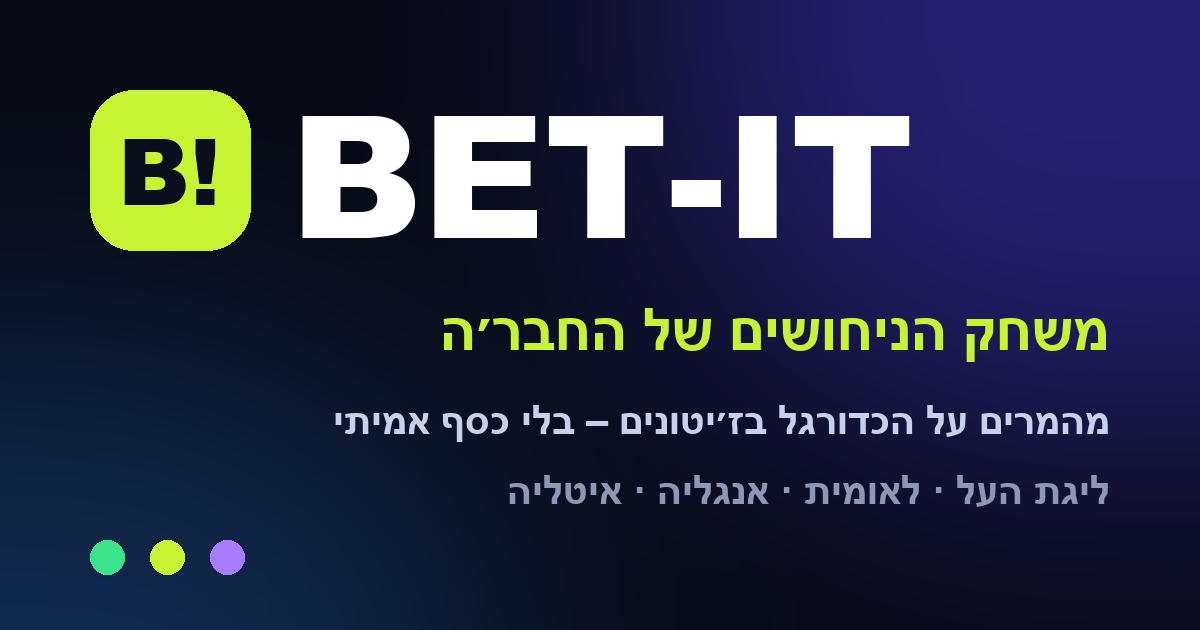
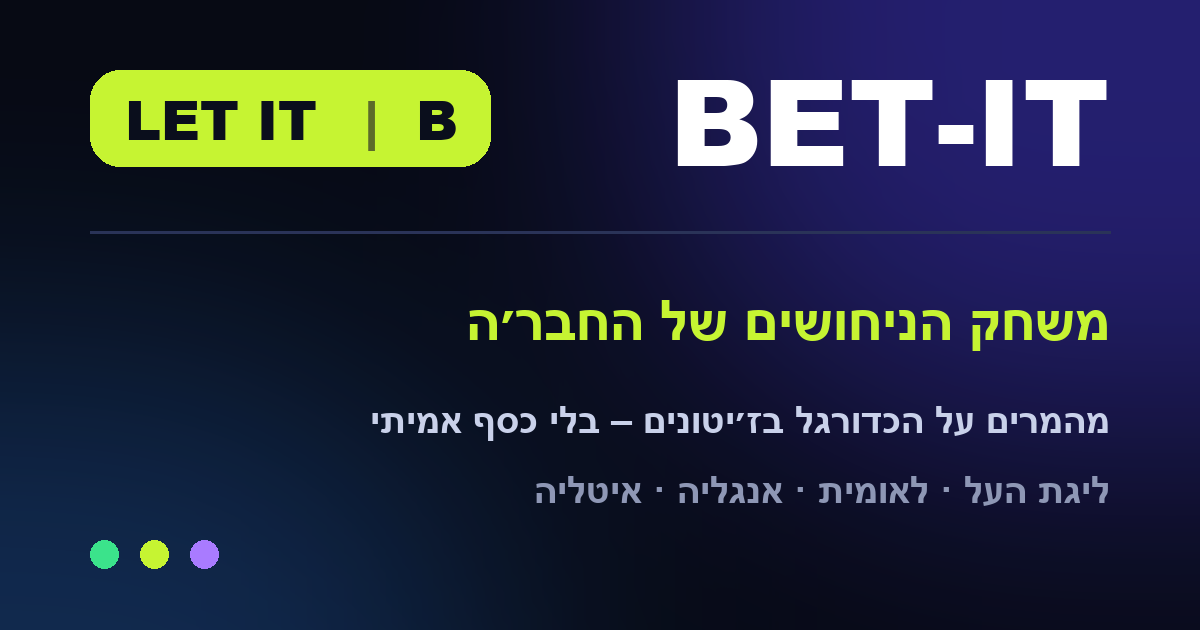
לוגו LET IT | B, מסך מנהל רק עם המפתח האישי, תיקון בדיקת לשוניות

diff --git a/index.html b/index.html
@@ -36,7 +36,8 @@ b,.big,.score,.v,.val{font-variant-numeric:tabular-nums}
 .appbar{position:sticky;top:0;z-index:20;background:rgba(5,12,8,.82);backdrop-filter:saturate(1.4) blur(14px);-webkit-backdrop-filter:saturate(1.4) blur(14px);border-bottom:1px solid var(--line);padding-top:env(safe-area-inset-top)}
 .bar{display:flex;align-items:center;justify-content:space-between;gap:10px;height:60px}
 .brand{display:flex;align-items:center;gap:10px;min-width:0}
-.mark{position:relative;width:38px;height:38px;border-radius:12px;letter-spacing:-1px;font-style:italic;direction:ltr;background:linear-gradient(145deg,var(--gold),var(--gold2));color:#0A0E1C;display:grid;place-items:center;font-weight:900;font-size:20px;box-shadow:0 4px 14px rgba(198,244,50,.25);flex:0 0 auto}
+.mark{position:relative;height:36px;padding:0 11px;border-radius:12px;letter-spacing:.5px;direction:ltr;font-size:14px !important;white-space:nowrap;background:linear-gradient(145deg,var(--gold),var(--gold2));color:#0A0E1C;display:flex;align-items:center;justify-content:center;font-weight:900;font-size:20px;box-shadow:0 4px 14px rgba(198,244,50,.25);flex:0 0 auto}
+.mark .sep{display:inline;font-size:14px;margin:0 5px;opacity:.45;font-weight:900}
 .mark i{position:absolute;bottom:-2px;left:-2px;width:11px;height:11px;border-radius:50%;background:var(--mut);border:2px solid var(--bg)}
 .mark i.on{background:var(--em);box-shadow:0 0 8px var(--em)}
 .brand b{display:block;font-size:17px;font-weight:900;letter-spacing:.3px;line-height:1}
@@ -224,7 +225,7 @@ const DB = 'https://buxbet-il-default-rtdb.europe-west1.firebasedatabase.app';
 </script>
 
 <header class="appbar"><div class="wrap bar">
-  <div class="brand"><span class="mark">B!<i id="cdot"></i></span><div><b>BET-IT</b><small>משחק הניחושים של החבר׳ה</small></div></div>
+  <div class="brand"><span class="mark">LET&nbsp;IT<b class="sep">|</b>B<i id="cdot"></i></span><div><b>BET-IT</b><small>משחק הניחושים של החבר׳ה</small></div></div>
   <div class="topr" id="top"></div>
 </div></header>
 <div class="wrap" id="app"></div>
@@ -651,7 +652,7 @@ async function cancelBet(bid){
 async function adminOp(t, extra){ if(!AK) return; const id='o'+Date.now().toString(36)+rnd(4,AZ);
   const r=await write('PUT',`adminOps/${AK}/${id}`,{t,at:SV,...extra}); toast(r==='ok'?'נשלח לרובוט – יבוצע תוך כ-20 שניות ⏳':'הפעולה נדחתה',r==='ok',r==='ok'?null:'err',3000); }
 function viewAdmin(){
-  if(!AK) return `<div class="card" style="text-align:center;margin-top:20px"><div style="font-size:44px">🔐</div><h2>כניסת מנהל</h2><div class="muted">הכניסה למנהל רק דרך הלינק האישי והסודי של המנהל. אין כאן סיסמה.</div></div>`;
+  if(!AK) return viewGames();
   if(!AV) return `<div class="empty"><div class="e">⏳</div>טוען… (אם זה לא נטען – המפתח לא תקף)</div>`;
   const ra=AV.robot||S.meta.robotAt, users=(AV.users||[]).slice().sort((a,b)=>b.bal-a.bal), reqs=AV.reqs||[];
   let h=`<h2>⚙ מסך מנהל</h2><div class="card"><b>🤖 הרובוט</b><div class="muted" style="margin-top:4px">${ra?`בדק לאחרונה ב-${new Date(ra).toLocaleTimeString('he-IL',{timeZone:'Asia/Jerusalem'})} ${Date.now()-ra>120000?'⚠ לא פעיל כרגע (מופעל מחדש אוטומטית תוך כמה דקות)':'✅ פעיל'}`:'עוד לא התחבר'} · ${fxList().length} משחקים</div></div>`;
@@ -687,7 +688,7 @@ function go(k){ tab=k; lsSet('bb_tab',k); render(); window.scrollTo(0,0); }
 function render(){
   renderTop(); const app=document.getElementById('app');
   if(!A && !AK){ app.innerHTML=(SEC&&!loaded.me)?'<div class="empty"><div class="e">⏳</div>מתחבר…</div>':viewLogin()+footer(); renderNav(); return; }
-  if(!A && tab==='mine') tab='games'; if(tab==='admin'&&!AK) tab='table';
+  if(!A && tab==='mine') tab='games'; if(tab==='admin'&&!AK) tab='games';
   app.innerHTML=({games:viewGames,mine:viewMine,table:viewTable,leagues:viewLeagues,admin:viewAdmin}[tab]||viewGames)()+footer(); renderNav();
 }
 const footer=()=>`<footer>BET-IT · משחק הניחושים של החבר׳ה<br>לשם הכיף בלבד · אין כסף אמיתי ואין אפשרות לקנות ז'יטונים</footer>`;

diff --git a/tests/smoke_test.py b/tests/smoke_test.py
@@ -32,7 +32,7 @@ def check(cond, msg):
 
 try:
     with sync_playwright() as p:
-        b = p.chromium.launch(); pg = b.new_page(viewport={'width': 390, 'height': 844}, locale='he-IL')
+        b = p.chromium.launch(); ctx = b.new_context(viewport={'width': 390, 'height': 844}, locale='he-IL'); pg = ctx.new_page()
         errs = []; pg.on('pageerror', lambda e: errs.append(str(e)))
         pg.goto('http://127.0.0.1:8765/index.html'); pg.wait_for_selector('#nameIn', timeout=20000)
         pg.fill('#nameIn', name); pg.click('#loginBtn')
@@ -40,7 +40,7 @@ try:
         check(True, 'משתמש חדש נכנס וקיבל 500')
         pg.wait_for_selector('#final.show', timeout=10000); code = pg.locator('#final div[style*="letter-spacing"]').inner_text().replace('-', '').strip()
         check(len(code) == 12, 'הוצג קוד כניסה אישי'); pg.click('#final .btn.sec')
-        extra = [pg.context.new_page() for _ in range(3)]                 # עוד 3 לשוניות פתוחות – השמירה חייבת לעבוד
+        extra = [ctx.new_page() for _ in range(3)]                 # עוד 3 לשוניות פתוחות – השמירה חייבת לעבוד
         for x in extra: x.goto('http://127.0.0.1:8765/index.html')
         pg.bring_to_front()
         pg.evaluate(f"() => {{ dayF = S.fixtures['{E}'].day; render(); }}")
